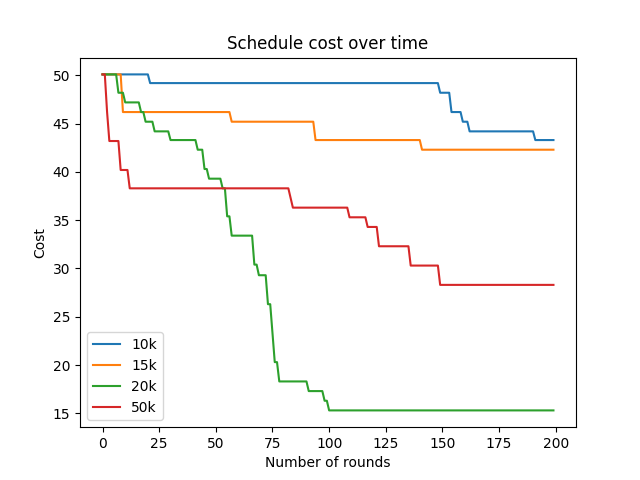
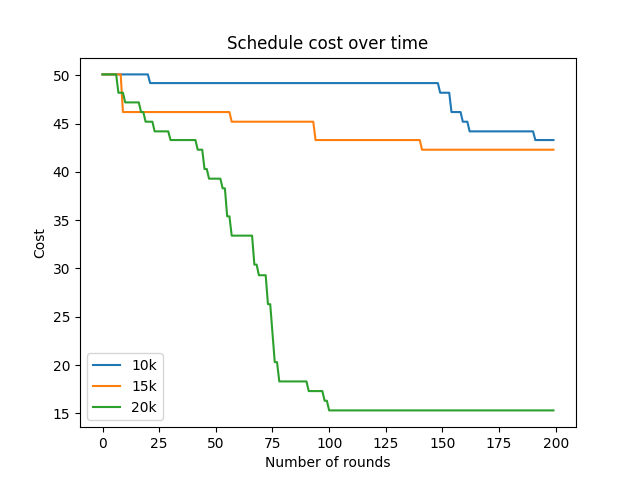
fixed my goofs

diff --git a/figures.py b/figures.py
@@ -11,11 +11,10 @@ csv_speedup = lambda name: (lambda arr: (arr[1:, 2] / arr[1:, 6]).mean())(np.gen
 
 benchmarks = ['distances', 'conv', 'matmul', 'dot_product']
 
-labels = []
-values = []
-
 names = {'distances': 'dist', 'conv': 'conv', 'matmul': 'mm', 'dot_product': 'dot'}
 sizes = lambda s: (lambda a, b: a if a == b else f'{a}.{b}')(*s.split('x'))
+
+speedups = {}
 
 for benchmark in benchmarks:
     for size in os.listdir(f'csvs/{benchmark}'):
@@ -23,18 +22,20 @@ for benchmark in benchmarks:
         p = 1 / csv_speedup(f'csvs/{benchmark}/{size}/{benchmark}_{size}_partially.csv')
         f = 1 / csv_speedup(f'csvs/{benchmark}/{size}/{benchmark}_{size}_fully.csv')
 
-        labels.append(f'{names[benchmark]}.{sizes(size)}')
-        values.append((u, p, f))
+        speedups[f'{names[benchmark]}.{sizes(size)}'] = (u, p, f)
 
 width = 0.2
 
-labels.append('zdtree')
-values.append(tuple(1 / csv_speedup(f'csvs/decision_tree/decision_tree_packed_{suf}.csv') for suf in 'un,partially,fully'.split(',')))
+speedups['dtree'] = tuple(1 / csv_speedup(f'csvs/decision_tree/decision_tree_packed_{suf}.csv') for suf in 'un,partially,fully'.split(','))
 dtree_scalar_speedup = 1 / csv_speedup('csvs/decision_tree/decision_tree.csv')
 
+labels = [(lambda n, s: (n, eval(s)))(*l.split('.', 1)) for l in speedups.keys() if '.' in l]
+labels = list(map(lambda l: f'{l[0]}.{l[1]}', sorted(labels))) + ['dtree']
+values = [speedups[l] for l in labels]
+
 x = np.arange(len(labels))
-labels, values = zip(*sorted(zip(labels, values)))
-labels = labels[:-1] + ('dtree',)
+# labels, values = zip(*sorted(zip(labels, values)))
+# labels = labels[:-1] + ('dtree',)
 
 
 us, ps, fs = zip(*values)
@@ -104,15 +105,15 @@ plt.close()
 schedule_10k = np.genfromtxt('csvs/dist10k.csv', delimiter=',')
 schedule_15k = np.genfromtxt('csvs/dist15k.csv', delimiter=',')
 schedule_20k = np.genfromtxt('csvs/dist20k.csv', delimiter=',')
-schedule_50k = np.genfromtxt('csvs/dist50k.csv', delimiter=',')
+# schedule_50k = np.genfromtxt('csvs/dist50k.csv', delimiter=',')
 
 
 plt.plot(schedule_10k[1, :])
 plt.plot(schedule_15k[1, :])
 plt.plot(schedule_20k[1, :])
-plt.plot(schedule_50k[1, :])
+# plt.plot(schedule_50k[1, :])
 plt.title('Schedule cost over time')
 plt.xlabel('Number of rounds')
 plt.ylabel('Cost')
-plt.legend(['10k', '15k', '20k', '50k'])
+plt.legend(['10k', '15k', '20k'])
 plt.savefig('writeup/figures/graphs/schedules.png')
